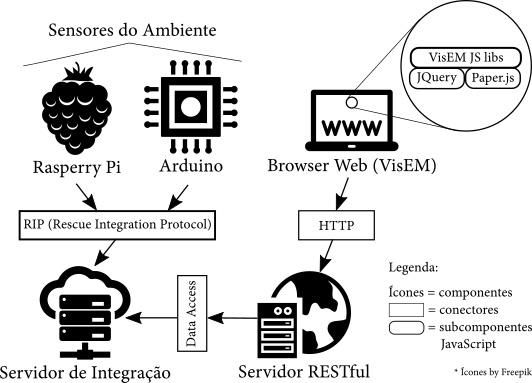
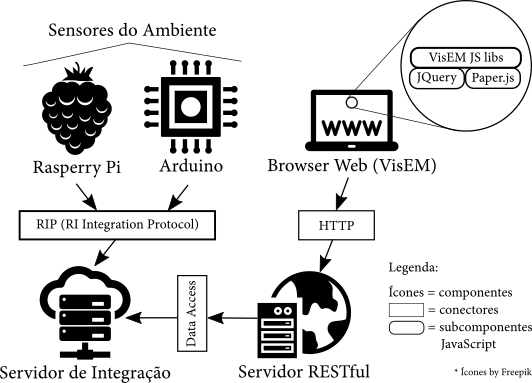
Site V4 - removed Rescue(r) references.

Changed region(s): [[0.0301, 0.5744, 0.4211, 0.6031]]

diff --git a/index.html b/index.html
@@ -41,7 +41,7 @@
 			
 			<br>
 			
-			<h3>Seções</h3>
+			<h2>Seções</h2>
 			
 			<ul>
 				<li>
@@ -60,19 +60,23 @@
             <h2 id="objetivo">Objetivo da VisEM</h2>
             
             <p align="justify">
-                Este trabalho apresenta uma solução visual, fornecida pela aplicação VisEM, para gerenciamento de emergência em ambientes <i>indoor</i>. A VisEM faz parte do Sistema de Gerenciamento de Emergência para Ambientes Fechados (SGEAF), o qual coleta, armazena e processa dados referentes a um ambiente fechado e as pessoas contidas neste.
+                Este trabalho apresenta uma solução visual para suporte à tomada de decisão em situações emergenciais em ambientes fechados. Foi desenvolvido um protótipo web, chamado VisEM (<b>Vis</b>ualização de <b>EM</b>ergência), que representa a planta baixa de um ambiente, destaca as pessoas e suas características, além de mostrar o histórico espacial das pessoas no ambiente sendo monitorado. Com a VisEM, os profissionais da área de salvamento e gerenciamento de emergências podem tomar ações com um maior nível de precisão por meio da análise visual.
+            </p>
+            <br/>
+            <p align="justify">
+                Este trabalho está inserido no contexto de um projeto de um sistema maior, chamado <i>NOME PROJETO</i> (RI). O RI tem como objetivo construir uma infraestrutura escalável para identificação e visualização de pessoas em ambientes <i>indoor</i>, tendo como foco o suporte ao gerenciamento de emergências. O módulo de visualização foi projetado e desenvolvido tendo como base a opinião de profissionais da área. Profissionais, tais como bombeiros, destacaram questões de prioridade em um salvamento, as quais formaram o foco da solução VisEM.
             </p>
             
             <h2 id="ferramenta">Ferramenta</h2>
             
             <p align="justify">
-                A Figura 1 apresenta a visão arquitetural Componente & Conector (estrutural) da plataforma Rescuer Indoor. O sensoriamento do ambiente pode ser realizado por qualquer dispositivo (ex: Raspberry Pi, Arduino, etc) que implemente o protocolo <i>RIP Rescue Integration Protocol</i> - um padrão para transmissão de informações especiais e temporais desenvolvido como parte do projeto Rescuer Indoor. Tais informações são armazenadas e consolidadas em um Servidor de Integração.
+                A Figura 1 apresenta a visão arquitetural Componente & Conector (estrutural) da plataforma <i>(NOME PROJETO - RI)</i>. O sensoriamento do ambiente pode ser realizado por qualquer dispositivo (ex: Raspberry Pi, Arduino, etc) que implemente o protocolo <i>RIP - RI Integration Protocol</i> - um padrão para transmissão de informações especiais e temporais desenvolvido como parte do projeto <i>(NOME PROJETO - RI)</i>. Tais informações são armazenadas e consolidadas em um Servidor de Integração.
             </p>
 	               
 	        <div class="wrapper"> 
 				<figure class="figure" ALIGN="center">
 					<img src="imagens/arquitetura-ri.png" alt="Visão Arquitetural" title="Visão Arquitetural"/>
-					<figcaption ALIGN="center">Figura <span>1</span>: Visão arquitetural Componente & Conector de mais alto nível do Rescue Indoor.</figcaption>
+					<figcaption ALIGN="center">Figura <span>1</span>: Visão arquitetural Componente & Conector de mais alto nível do RI.</figcaption>
 				</figure>
 			</div>
 			
